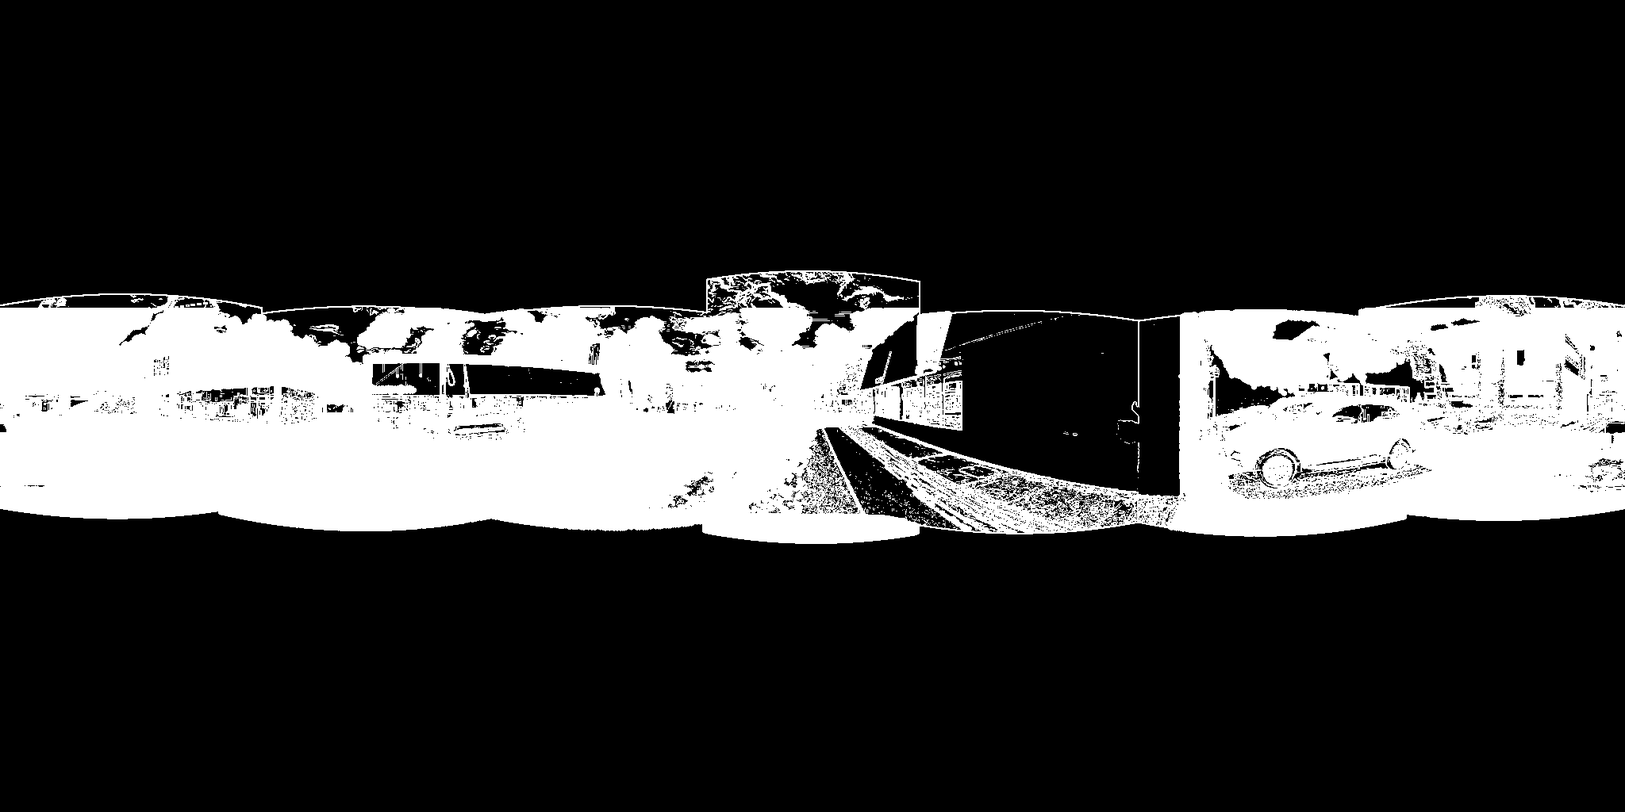
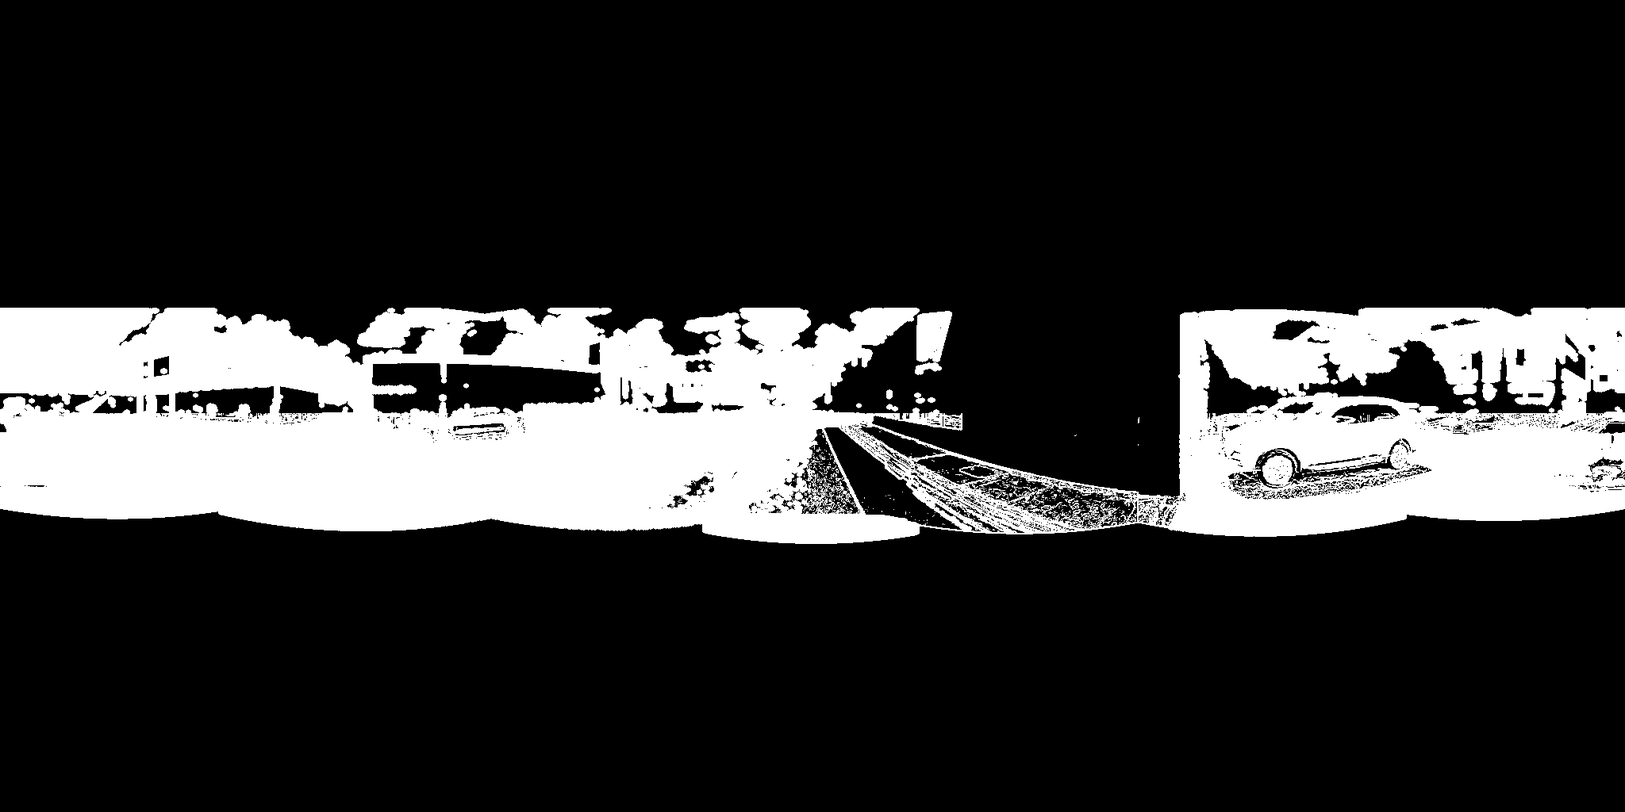
DB-77C autonomous: opus audit reframe (image-domain) + Poisson v2 + EXP-A Difix script
opus strategy subagent reframed: we fought in geometry domain but task is image-semantic
(PLAUSIBLE+no-hallucination); untested path = strong-conditioned single-step refiner on the
aligned mosaic. Poisson v2 (protected=lane/curb only) safe-seam 1.6%, gate-pass but faint.
EXP-A (Difix nvidia/difix seam-band refine + YOLO object-gate) script added; EXP-B (UniDepthV2)
queued. A100 live; secret non-repo only.

diff --git a/scripts/phase3/db77c_expA_difix_seamband.py b/scripts/phase3/db77c_expA_difix_seamband.py
@@ -1,0 +1,268 @@
+"""DB-77C EXP-A: Difix3D+ zero-shot seam-band refine of the A1 mosaic (A100).
+
+opus strategy audit TOP-1: the only untested path is a STRONG-CONDITIONED discriminative
+single-step refiner on the already-aligned mosaic (vs DiT360 pure generative outpaint that
+invents cars). Difix (nvidia/difix, CVPR2025 Oral, single-step img2img, training set includes
+an in-house real-driving 3-camera rig ~ our ring overlap) refines the A1 mosaic's SEAM-BAND
+512 patches only (NOT the whole ERP — Difix is perspective-trained). Edits confined to the
+safe band (seam_band ∩ ~abstain ∩ ~protected); near-field ghost zones stay ABSTAIN.
+
+Object-consistency GATE (the leash): YOLO instance count in the band must NOT increase
+(no net-new car/person/sign). Kill: invents objects, smears single-source structure, or no gain.
+
+One bounded A100 /status + /exec. Runtime secret from non-repo file; remote gets no token; scan 0.
+Uploads A1 + masks to Drive first (post /write), remote reads them.
+"""
+from __future__ import annotations
+import argparse, base64, json, time, urllib.parse
+from datetime import datetime, timezone
+from pathlib import Path
+from typing import Any
+from db64_ltr_v0_phase4b_z_visibility_cause import ColabClient, rel, safe_status, sanitize, secret_hits
+
+ROOT = Path(__file__).resolve().parents[2]
+OUT_DIR = ROOT / "deliverables" / "db77c_expA_difix"
+OUT_DIR.mkdir(parents=True, exist_ok=True)
+REMOTE_OUT = "/content/drive/MyDrive/koi_waymo2pano_colab/results/db77c_expA_difix"
+REMOTE_IN = "/content/drive/MyDrive/koi_waymo2pano_colab/results/db77c_inputs"
+P_RESULT = REMOTE_OUT + "/EXPA_remote_result.json"
+
+UPLOADS = {
+    "A1_base.png": "deliverables/gpt_pro_sources/01_A1_view_none_bmw_2048x1024.png",
+    "mask_seam_band.png": "deliverables/db77c_leashed_seam/mask_seam_band.png",
+    "mask_abstain.png": "deliverables/db77c_leashed_seam/mask_abstain.png",
+    "mask_protected.png": "deliverables/db77c_leashed_seam/mask_protected.png",
+}
+FETCH = {
+    "summary": ("EXPA_summary.json", 16), "remote_result": ("EXPA_remote_result.json", 16),
+    "board": ("EXPA_board.jpg", 70), "roi": ("EXPA_roi_sheet.jpg", 70),
+    "difix_full": ("A1_difix_full.png", 40), "gate": ("EXPA_object_gate.json", 16),
+}
+
+
+def remote_py() -> str:
+    code = r'''
+import json, math, pathlib, subprocess, sys, time, traceback
+import numpy as np
+REMOTE_OUT = pathlib.Path("__REMOTE_OUT__"); REMOTE_IN = pathlib.Path("__REMOTE_IN__"); RESULT = pathlib.Path("__P_RESULT__")
+W, H = 2048, 1024
+MARKED_ROIS = {"left_road":(250,515,460,715),"lower_center [ABSTAIN]":(740,595,1035,745),"center_lane":(1030,515,1325,735),"right_curb [ABSTAIN]":(1300,500,1575,760)}
+OUT = {"phase":"db77c_expA_difix_seamband","scope":{"presentation_render":True,"source_faithful":False,"single_step":True,"band_only":True,"red_promotion":False},"started":time.strftime("%Y-%m-%dT%H:%M:%SZ",time.gmtime())}
+
+def io(n):
+    try: __import__(n); return True
+    except Exception: return False
+
+def run(cmd,t=900):
+    p=subprocess.run(cmd,text=True,stdout=subprocess.PIPE,stderr=subprocess.STDOUT,timeout=t,check=False); return p.returncode,p.stdout[-800:]
+
+try:
+    import cv2
+    REMOTE_OUT.mkdir(parents=True,exist_ok=True)
+    # deps
+    deps={}
+    for pkg in ["diffusers","transformers","accelerate","ultralytics"]:
+        if not io(pkg): deps[pkg]=run([sys.executable,"-m","pip","install","-q",pkg])[0]
+    import torch
+    OUT["cuda"]=torch.cuda.get_device_name(0) if torch.cuda.is_available() else None
+    a1=cv2.cvtColor(cv2.imread(str(REMOTE_IN/"A1_base.png")),cv2.COLOR_BGR2RGB)
+    seam=cv2.imread(str(REMOTE_IN/"mask_seam_band.png"),0)>127
+    abst=cv2.imread(str(REMOTE_IN/"mask_abstain.png"),0)>127
+    prot=cv2.imread(str(REMOTE_IN/"mask_protected.png"),0)>127
+    safe=seam&(~abst)&(~prot)
+    OUT["safe_band_frac"]=float(safe.mean())
+    # ---- load Difix (probe API: diffusers DifixPipeline / HF custom / repo) ----
+    pipe=None; api=None
+    try:
+        from diffusers import DifixPipeline
+        pipe=DifixPipeline.from_pretrained("nvidia/difix",trust_remote_code=True,torch_dtype=torch.float16); api="diffusers.DifixPipeline"
+    except Exception as e1:
+        OUT["api_err_diffusers"]=str(e1)[:300]
+        try:
+            from diffusers import DiffusionPipeline
+            pipe=DiffusionPipeline.from_pretrained("nvidia/difix",trust_remote_code=True,custom_pipeline="nvidia/difix",torch_dtype=torch.float16); api="DiffusionPipeline.custom"
+        except Exception as e2:
+            OUT["api_err_custom"]=str(e2)[:300]
+            rc,tail=run(["git","clone","--depth","1","https://github.com/nv-tlabs/Difix3D","/content/Difix3D"]); OUT["clone"]=rc
+            sys.path.insert(0,"/content/Difix3D"); sys.path.insert(0,"/content/Difix3D/src")
+            try:
+                from pipeline_difix import DifixPipeline as DP
+                pipe=DP.from_pretrained("nvidia/difix",trust_remote_code=True,torch_dtype=torch.float16); api="repo.pipeline_difix"
+            except Exception as e3:
+                OUT["api_err_repo"]=str(e3)[:400]
+    OUT["difix_api"]=api
+    if pipe is None:
+        OUT["status"]="difix_load_failed"; raise RuntimeError("Difix pipeline could not be loaded; see api_err_*")
+    pipe=pipe.to("cuda")
+    try: pipe.set_progress_bar_config(disable=True)
+    except Exception: pass
+
+    def difix(img_rgb):
+        from PIL import Image
+        pil=Image.fromarray(img_rgb.astype(np.uint8))
+        for kw in [dict(prompt="remove degradation",image=pil,num_inference_steps=1,timesteps=[199],guidance_scale=0.0),
+                   dict(image=pil,num_inference_steps=1,timesteps=[199]),
+                   dict(prompt="",image=pil,num_inference_steps=1)]:
+            try:
+                o=pipe(**kw); return np.asarray(o.images[0].convert("RGB").resize((img_rgb.shape[1],img_rgb.shape[0]))),kw
+            except Exception as ex:
+                last=str(ex)[:200]
+        raise RuntimeError("difix call failed: "+last)
+
+    # single-patch smoke first (verify ERP patch runs)
+    ys,xs=np.where(safe)
+    if ys.size==0: OUT["status"]="no_safe_band"; raise RuntimeError("empty safe band")
+    cy,cx=int(ys.mean()),int(xs.mean())
+    P=512; y0=max(0,min(H-P,cy-P//2)); x0=max(0,min(W-P,cx-P//2))
+    smoke,used_kw=difix(a1[y0:y0+P,x0:x0+P])
+    OUT["difix_call_kwargs"]={k:(str(v)[:40] if k!="image" else "PIL") for k,v in used_kw.items()}
+    OUT["smoke_ok"]=True
+
+    # full seam-band refine: slide 512 patches over the safe-band bbox, refine, composite ONLY on safe band (feathered)
+    a1f=a1.astype(np.float32); out=np.zeros((H,W,3),np.float32); wacc=np.zeros((H,W),np.float32)
+    by0,by1,bx0,bx1=ys.min(),ys.max(),xs.min(),xs.max()
+    step=384; n_patch=0
+    for py in range(max(0,by0-64),min(H,by1+64),step):
+        for px in range(max(0,bx0-64),min(W,bx1+64),step):
+            yy0=max(0,min(H-P,py)); xx0=max(0,min(W-P,px))
+            sb=safe[yy0:yy0+P,xx0:xx0+P]
+            if sb.sum()<200: continue
+            ref,_=difix(a1[yy0:yy0+P,xx0:xx0+P]); n_patch+=1
+            fw=cv2.GaussianBlur(sb.astype(np.float32),(0,0),24)  # feather inside band
+            out[yy0:yy0+P,xx0:xx0+P]+=fw[...,None]*ref.astype(np.float32); wacc[yy0:yy0+P,xx0:xx0+P]+=fw
+    m=wacc>1e-3; a1_difix=a1f.copy()
+    a1_difix[m]=out[m]/wacc[m][...,None]   # weighted-average of refined patches, band only
+    a1_difix[~safe]=a1f[~safe]             # hard guarantee: only the safe band changes
+    a1_difix=np.clip(a1_difix,0,255).astype(np.uint8)
+    OUT["n_patches"]=n_patch; OUT["changed_in_band_px"]=int((np.abs(a1_difix.astype(np.int16)-a1.astype(np.int16)).max(-1)>2).sum()); OUT["changed_outside_band_px"]=int(((np.abs(a1_difix.astype(np.int16)-a1.astype(np.int16)).max(-1)>2)&(~safe)).sum())
+    cv2.imwrite(str(REMOTE_OUT/"A1_difix_full.png"),cv2.cvtColor(a1_difix,cv2.COLOR_RGB2BGR))
+
+    # ---- object-consistency GATE (YOLO instance diff in the safe band) ----
+    gate={}
+    try:
+        from ultralytics import YOLO
+        y=YOLO("yolov8x.pt")
+        def objs(im):
+            r=y(im,verbose=False,conf=0.3)[0]; out=[]
+            for b,c in zip(r.boxes.xyxy.cpu().numpy(), r.boxes.cls.cpu().numpy()):
+                out.append((int(c),float((b[0]+b[2])/2),float((b[1]+b[3])/2)))
+            return out
+        o0=objs(a1); o1=objs(a1_difix)
+        # net-new objects whose center is in the safe band
+        def inband(o): return [t for t in o if safe[min(H-1,int(t[2])),min(W-1,int(t[1]))]]
+        gate={"n_obj_a1":len(o0),"n_obj_difix":len(o1),"n_obj_a1_inband":len(inband(o0)),"n_obj_difix_inband":len(inband(o1)),
+              "net_new_inband":max(0,len(inband(o1))-len(inband(o0)))}
+    except Exception as ex:
+        gate={"yolo_err":str(ex)[:200]}
+    OUT["object_gate"]=gate
+    (REMOTE_OUT/"EXPA_object_gate.json").write_text(json.dumps(gate,indent=2))
+
+    # ---- boards ----
+    from PIL import Image,ImageDraw,ImageFont
+    try: f=ImageFont.truetype("DejaVuSans.ttf",15)
+    except Exception: f=ImageFont.load_default()
+    def band_(rgb):
+        o=rgb.astype(np.float32).copy(); o[...,0][safe]=0.45*o[...,0][safe]+0.55*255; return np.clip(o,0,255).astype(np.uint8)
+    cols=[("A1 base",a1),("A1 + Difix seam-band refine",a1_difix),("safe-band (red)",band_(a1))]
+    def save_rgb(p,a,q=92): cv2.imwrite(str(p),cv2.cvtColor(np.clip(a,0,255).astype(np.uint8),cv2.COLOR_RGB2BGR),[int(cv2.IMWRITE_JPEG_QUALITY),q] if str(p).endswith("jpg") else [])
+    # roi sheet
+    rows=[]
+    for nm,(x0r,y0r,x1r,y1r) in MARKED_ROIS.items():
+        strip=np.concatenate([a1[y0r:y1r,x0r:x1r],a1_difix[y0r:y1r,x0r:x1r]],1)
+        strip=cv2.resize(strip,(1000,int(strip.shape[0]*1000/strip.shape[1]))); rows.append((nm,strip))
+    sh_w=max(r[1].shape[1] for r in rows); sheet=Image.new("RGB",(sh_w,sum(r[1].shape[0]+22 for r in rows)+24),(12,12,16)); d=ImageDraw.Draw(sheet)
+    d.text((6,4),"EXP-A ROI: A1 | A1+Difix(seam-band)  -- did the faint seam reduce w/o new objects?",(235,235,245),font=f); yo=24
+    for nm,st in rows:
+        bar=Image.new("RGB",(sh_w,22),(22,22,30)); ImageDraw.Draw(bar).text((6,3),nm,(220,220,235),font=f); sheet.paste(bar,(0,yo)); yo+=22; sheet.paste(Image.fromarray(st),(0,yo)); yo+=st.shape[0]
+    sheet.save(REMOTE_OUT/"EXPA_roi_sheet.jpg",quality=92)
+    # full board
+    tiles=[]
+    for t,im in cols:
+        I=Image.fromarray(im).resize((900,450)); bar=Image.new("RGB",(900,24),(15,15,22)); ImageDraw.Draw(bar).text((6,4),t,(235,235,245),font=f)
+        o=Image.new("RGB",(900,474)); o.paste(bar,(0,0)); o.paste(I,(0,24)); tiles.append(o)
+    bd=Image.new("RGB",(900,474*3+60),(10,10,14)); dd=ImageDraw.Draw(bd)
+    dd.text((8,6),f"EXP-A Difix seam-band refine  api={api} patches={OUT.get('n_patches')} out_of_band_changed={OUT.get('changed_outside_band_px')} net_new_obj_inband={gate.get('net_new_inband')}",(240,240,250),font=f)
+    yo=40
+    for o in tiles: bd.paste(o,(0,yo)); yo+=o.height
+    bd.save(REMOTE_OUT/"EXPA_board.jpg",quality=90)
+
+    summary={"status":"db77c_expA_complete","difix_api":api,"safe_band_frac":OUT["safe_band_frac"],"n_patches":OUT.get("n_patches"),
+             "changed_outside_band_px":OUT.get("changed_outside_band_px"),"object_gate":gate,"requires_vision":True}
+    (REMOTE_OUT/"EXPA_summary.json").write_text(json.dumps(summary,indent=2)); OUT["status"]="db77c_expA_completed"; OUT["summary"]=summary
+except Exception as exc:
+    OUT["status"]=OUT.get("status","db77c_expA_failed"); OUT["error"]={"type":type(exc).__name__,"msg":str(exc),"trace":traceback.format_exc()[-2500:]}
+finally:
+    OUT["ended"]=time.strftime("%Y-%m-%dT%H:%M:%SZ",time.gmtime()); REMOTE_OUT.mkdir(parents=True,exist_ok=True)
+    RESULT.write_text(json.dumps(OUT,indent=2,default=str)); print("EXPA_JSON_BEGIN"); print(json.dumps(OUT,default=str,separators=(",",":"))[:4000]); print("EXPA_JSON_END")
+'''
+    return code.replace("__REMOTE_OUT__", REMOTE_OUT).replace("__REMOTE_IN__", REMOTE_IN).replace("__P_RESULT__", P_RESULT)
+
+
+def remote_bash(py):
+    b = base64.b64encode(py.encode()).decode()
+    return "set +x\npython - <<'PY'\nimport base64\nexec(compile(base64.b64decode('" + b + "').decode(),'<expA>','exec'))\nPY"
+
+
+def upload(client):
+    up = {}
+    for name, rp in UPLOADS.items():
+        raw = (ROOT / rp).read_bytes()
+        r = client.post("/write", {"path": f"{REMOTE_IN}/{name}", "content": base64.b64encode(raw).decode(), "base64": True})
+        up[name] = r.get("bytes_written", r.get("sha256", "ok"))
+    return up
+
+
+def run_remote(timeout_s):
+    client = ColabClient(); status = client.get("/status", timeout=120)
+    up = upload(client)
+    submit = client.post("/exec", {"cmd": ["bash", "-lc", remote_bash(remote_py())], "cwd": "/content", "timeout_s": timeout_s}, timeout=120)
+    jid = submit["job_id"]; t0 = time.time(); job = {}
+    while time.time() - t0 < timeout_s + 180:
+        time.sleep(10); job = client.get(f"/jobs/{urllib.parse.quote(jid)}", timeout=120)
+        if job.get("state") != "running": break
+    job = sanitize(job)
+    rr = None; raw = client.read_file(P_RESULT, max_size_mb=12)
+    if raw:
+        try: rr = json.loads(raw.decode())
+        except Exception: rr = None
+    if rr is None:
+        lt = job.get("log_tail", "")
+        if "EXPA_JSON_BEGIN" in lt:
+            try: rr = json.loads(lt.split("EXPA_JSON_BEGIN",1)[1].split("EXPA_JSON_END",1)[0].strip())
+            except Exception: rr = None
+    rr = sanitize(rr or {"status": "missing", "log": sanitize(job.get("log_tail", ""))})
+    (OUT_DIR / "EXPA_remote_result.json").write_text(json.dumps(rr, indent=2, ensure_ascii=False), encoding="utf-8")
+    fetched = {}
+    for k, (rn, mb) in FETCH.items():
+        lp = (OUT_DIR if k in {"summary", "remote_result", "board", "roi", "gate"} else OUT_DIR / "fetch") / rn
+        lp.parent.mkdir(parents=True, exist_ok=True)
+        d = client.read_file(REMOTE_OUT + "/" + rn, max_size_mb=mb)
+        fetched[k] = {"exists": bool(d)}
+        if d: lp.write_bytes(d)
+    man = {"created": datetime.now(timezone.utc).isoformat(), "status": "db77c_expA_difix_seamband",
+           "scope": {"exec_count": 1, "a100_used": True, "band_only": True, "single_step": True, "red_promotion": False},
+           "runtime": {"secret": "non_repo_file" if client.source != "process_env" else "env", "status": safe_status(status)},
+           "uploads": up, "remote_status": rr.get("status"), "difix_api": rr.get("difix_api"), "object_gate": rr.get("object_gate"),
+           "job": sanitize({k: v for k, v in job.items() if k not in {"log_tail", "cmd"}}), "fetched": fetched,
+           "drive_output": "results/db77c_expA_difix/"}
+    hits = secret_hits(json.dumps(man) + json.dumps(rr)); man["strict_secret_scan"] = {"hit_count": sum(h["count"] for h in hits)}
+    (OUT_DIR / "EXPA_manifest.json").write_text(json.dumps(man, indent=2, ensure_ascii=False), encoding="utf-8")
+    return {"status": rr.get("status"), "difix_api": rr.get("difix_api"), "object_gate": rr.get("object_gate"),
+            "changed_outside_band_px": rr.get("changed_outside_band_px"), "secret_hits": man["strict_secret_scan"]["hit_count"]}
+
+
+def check():
+    import py_compile; py_compile.compile(str(Path(__file__).resolve()), doraise=True); compile(remote_py(), "<expA>", "exec")
+    print(json.dumps({"status": "compile_ok"}))
+
+
+def main():
+    ap = argparse.ArgumentParser(); ap.add_argument("--check", action="store_true"); ap.add_argument("--run-remote", action="store_true"); ap.add_argument("--timeout-s", type=int, default=1800)
+    a = ap.parse_args()
+    if a.check: check(); return
+    if a.run_remote: print(json.dumps(run_remote(a.timeout_s), indent=2)); return
+    print(json.dumps({"status": "ready"}))
+
+
+if __name__ == "__main__":
+    main()

diff --git a/scripts/phase3/db77c_phase1_masks_poisson.py b/scripts/phase3/db77c_phase1_masks_poisson.py
@@ -69,10 +69,11 @@ def structure_protected(a1):
     road_band = (yy > 390) & (yy < 800)
     lane = ((val > 168) & (sat < 98) & road_band)
     lane = cv2.dilate(lane.astype(np.uint8), cv2.getStructuringElement(cv2.MORPH_ELLIPSE, (7, 7))) > 0
-    strong_edge = edge > np.percentile(edge, 90)
-    wall_base = (np.abs(gy) > np.percentile(np.abs(gy), 90)) & (yy > 430) & (yy < 800)
-    curb = (edge > np.percentile(edge, 85)) & road_band & (yy > 500)
-    return (lane | strong_edge | wall_base | curb)
+    curb = (edge > np.percentile(edge, 88)) & road_band & (yy > 520)
+    # protected = lane/curb (object-moat) ONLY. Poisson is low-freq tone-harmonize and preserves
+    # high-freq structure, so facade walls/windows can be safely tone-harmonized (NOT protected).
+    # Full YOLO object-moat (car/person/bike/pole/sign/window) is added at the Difix/A100 step.
+    return (lane | curb)
 
 
 def main():

diff --git a/agent/progress.md b/agent/progress.md
@@ -1,5 +1,21 @@
 # Waymo2Panorama Progress
 
+> ### 2026-06-06 (autonomous: opus strategy-audit synthesis → EXP-A Difix seam-band refine [TOP-1] + EXP-B UniDepthV2 [TOP-2])
+> **opus strategy subagent (web-verified) delivered a high-value audit.** Key insight: we fought the WHOLE battle in the GEOMETRY domain (depth→reproject→blend) and every failure is there; but the task is defined in the IMAGE-SEMANTIC domain (PLAUSIBLE + no hallucinated objects). We only tried learned in DiT360 (pure generative outpaint → invents cars); **we NEVER tried a STRONG-CONDITIONED discriminative single-step refiner on the already-aligned mosaic** — the real untested gap. Strongest adversarial point (accepted): we **mis-applied the source-faithful kill (abstain on "geometry-unverifiable") to a PLAUSIBLE task** — geometry-unverifiable ≠ visually-implausible. Also: near-field ghost now (post hard-select) is single-source patch MISALIGNMENT at the seam, not averaging — a learned harmonizer may make it continuous without depth.
+> **EXP-A (TOP-1, zero-shot, cheapest ~1 day) — Difix seam-band refine:** `nvidia/difix` (CVPR2025 Oral, single-step img2img, <8GB, training set INCLUDES an in-house real-driving 3-camera rig ≈ our ring overlap). Refine A1 mosaic's SEAM-BAND **512 patches** (NOT whole ERP — Difix is perspective-trained). Variant A2: ref = single-camera source on one seam side. **Object-consistency gate (YOLO instance-diff=0 across band).** Kill: invents car/curb/lane, smears single-source structure, or no visual gain. Risk (Difix official): "too far from input → hallucinate more" → bounded by shallow-denoise + object-gate + band-only.
+> **EXP-B (TOP-2, zero-shot, attacks geometry) — UniDepthV2 dense metric depth** replaces nearest-neighbour LiDAR densification, re-feed DB-77B IBR; LiDAR for scale alignment. Hard verdict: hold-out LiDAR residual p90 12-15m → <2m? Breaks → geometry wall loosens / abstain-rate drops; doesn't → 3rd independent proof of the wall. (UniDepthV2 BY-NC, academic OK.)
+> **Ceiling (honest):** if "seam gone"=source-faithful → converges to A1+safe-seam+abstain (DB-76a/77B already 2 proofs; EXP-B likely the 3rd). If "seam gone"=PLAUSIBLE → EXP-A has REAL breakout potential (only untested path). End deliverable either way = **3-tier graceful degradation** (verifiable→Poisson / single-source-misalign→learned refine / no-geometry near-field→abstain) + object gate + provenance + multi-scene abstain-rate curve.
+> **Decision:** run **EXP-A first** on A100 (gated, fast kill); EXP-B next. Writing EXP-A brief + script; staging A1/masks to Drive. Full subagent transcript in task a3d38bb9.
+> ---
+
+> ### 2026-06-06 (AUTONOMOUS goal started — Poisson v2 + opus strategy-audit subagent + A100 inputs staged)
+> **User set an AUTONOMOUS goal** (user asleep): explore this plausible-renderer line to its limit, solve the problem if possible, else keep exploring; use opus subagents + adversarial audit to avoid local optima; A100-40GB live the whole time; brief-before-experiment; write everything to progress.
+> **Poisson v2** (protected relaxed to lane/curb only, since Poisson is low-freq tone and preserves structure): safe_seam 1.1%→1.6%, **still faint**. The leashed-Poisson ceiling is LOW — the source-boundary seam-band is only 4.6% and most of it is near-field-abstain or lane/curb; the visibly-objectionable seams/ghosts all sit in protected/abstained regions we must not touch. **Poisson alone does not solve it.**
+> **Launched an opus strategy-audit subagent** (background, web-enabled, multi-stance): adversarially re-audit "near-field seam = geometry wall" (is it premature?), produce a cost-escalating experiment sequence (zero-shot→trained), scan 2024-2026 for borrowable methods (Difix integral refine / foundation-depth-improved densify / learned stitching / flow-based seam-hide), honest ceiling assessment, TOP-2 experiments. Avoid local optima per user's directive.
+> **Staged A1 / hard_select / masks to Drive** `results/db77c_inputs/` for the next A100 visual experiment (so any chosen method can read them).
+> **Status:** A100-40GB live (0 jobs). Awaiting subagent synthesis → pick the most promising experiment → write its brief → run on A100. Next decision is subagent-informed to avoid local optimum.
+> ---
+
 > ### 2026-06-06 (DB-77C Phase 1 — masks + Poisson baseline on A1 (local CPU); gate PASS (band-outside Δ=0, ghost abstained) but Poisson increment is FAINT)
 > **What ran:** local CPU (NO A100), `scripts/phase3/db77c_phase1_masks_poisson.py`. Masks on the A1 base: generated 0.05% (A1 outpaint), seam-band 4.6%, protected 21% (structure proxy — lane/curb/wall-base/edge; **full YOLO object-moat deferred to the Difix/A100 step**, no ultralytics local), abstain 16.7% (near-field BMW/SUV + right curb-wall ROIs + dark near-ground). **safe_seam = seam ∩ ~protected ∩ ~abstain = only 1.1% (23.5k px).** Poisson low-freq tone-harmonize on safe_seam only (keep A1 high-freq, swap surrounding low-freq tone).
 > **Gate:** `out_of_band_changed_px = 0` (edits strictly confined to the safe band) ✓; near-field object ghost zones correctly **ABSTAINED (untouched)** ✓. in-band tone Δ mean 20 / max 55.

diff --git a/agent/handoff.md b/agent/handoff.md
@@ -1,6 +1,9 @@
 # Waymo2Panorama — Agent Handoff
 
-> ## ⭐⭐ 2026-06-06 LATEST — DB-76a COMPLETE (all 4 batteries) → DB-77B next
+> ## ⭐⭐⭐ 2026-06-06 LATEST (AUTONOMOUS run — see `progress.md` top for live state)
+> User set an autonomous goal (explore the plausible-renderer line to its limit; use opus subagents to avoid local optima; A100-40GB live). Chain: DB-76a (source-faithful single-centre = physical wall, 4 batteries) → DB-77B (hand-built IBR tears; densify p90 15m at edges, renderer bugs NOT the cause) → **DB-77C** Phase 0 base = **A1_view_none** (hard_select mosaic + sky/out-of-FOV outpaint=generated); Phase 1 Poisson safe-seam harmonize gate-passes but FAINT (safe band 1.6%). **opus strategy audit reframed the problem:** we fought in the GEOMETRY domain but the task is IMAGE-SEMANTIC (PLAUSIBLE + no hallucination); the ONLY untested path = a STRONG-CONDITIONED single-step refiner on the aligned mosaic (vs DiT360 pure-generative = invents cars). Running **EXP-A** (Difix `nvidia/difix` zero-shot seam-band refine + YOLO object-gate, A100) and **EXP-B** (UniDepthV2 dense metric depth → re-feed IBR; hold-out residual p90 12-15m→<2m? = the decisive geometry-wall test). End deliverable = **3-tier graceful degradation** (verifiable→Poisson / single-source-misalign→learned-refine / no-geometry→abstain) + object gate + provenance. One active brief; A100 secret non-repo only, scan 0.
+>
+> ## ⭐⭐ 2026-06-06 — DB-76a COMPLETE (all 4 batteries) → DB-77B/C
 > DB-76a (measurement-only geometry/abstain audit) is **DONE**: ① GREEN overlap 22-37% geometrically wrong + 81% single-source; ② task-band abstain ~3%; ③ forward-stereo recovers only ~1% validated GREEN (forward-only); ④ multi-frame LiDAR = **mid geometry base** (near-ground 3-4× gain → 11-18%, curb/wall 5-20%, <25% bar; clean clean+dense, BMW near-field local smear). **Source-faithful single-centre repair = physical wall, confirmed.** Leader (2026-06-06) re-set the goal to a GENERAL **plausible "make-the-seam-disappear" renderer** and set aside the Bosch source-faithful hard constraint for now. Next = **DB-77B Branch B leashed renderer** (written into `decision_briefs.md`, proposed): geometry owns position + learned owns appearance + real-pixels/geometry/object-protection = the leash; band-confined single-step refiner; `generated_mask`; PLAUSIBLE not source-faithful. Distinction from prior NEG: DiT360 seam-completion = no leash (invents cars), DrivingForward = leash mis-tuned (blur). Code on GitHub: `4c1d875` (db76a ①②) + `3188cb7` (db76b ③④). Boards: `deliverables/db76b_stereo_temporal_coverage/`. **Status: DB-77B ACTIVE; Phase 0+1 leashed IBR explored on L4 — MIXED** — depth-correct IBR CLOSES the seam where geometry is dense (clean facades/road ROIs become continuous → core claim validated), TEARS where sparse/near-field (BMW; root cause = sparse geometry 8-12% + nearest densify → depth wrong at edges). **Awaiting leader direction: (B) 3DGS surfel densify [A100] / (C) band-confined refiner [A100, band 46-57% large] / (D) road-only IBR + facade hard_select [L4].** Code `9963594`; boards `deliverables/db77b_leashed_renderer/`. One active brief at a time.** Runtime secrets: non-repo file only (never repo/log); A100/L4 only with user go.
 >
 > ## ⭐ 2026-06-06 READ FIRST — LEADER STRATEGY SYNTHESIS & DB76a HANDOFF
